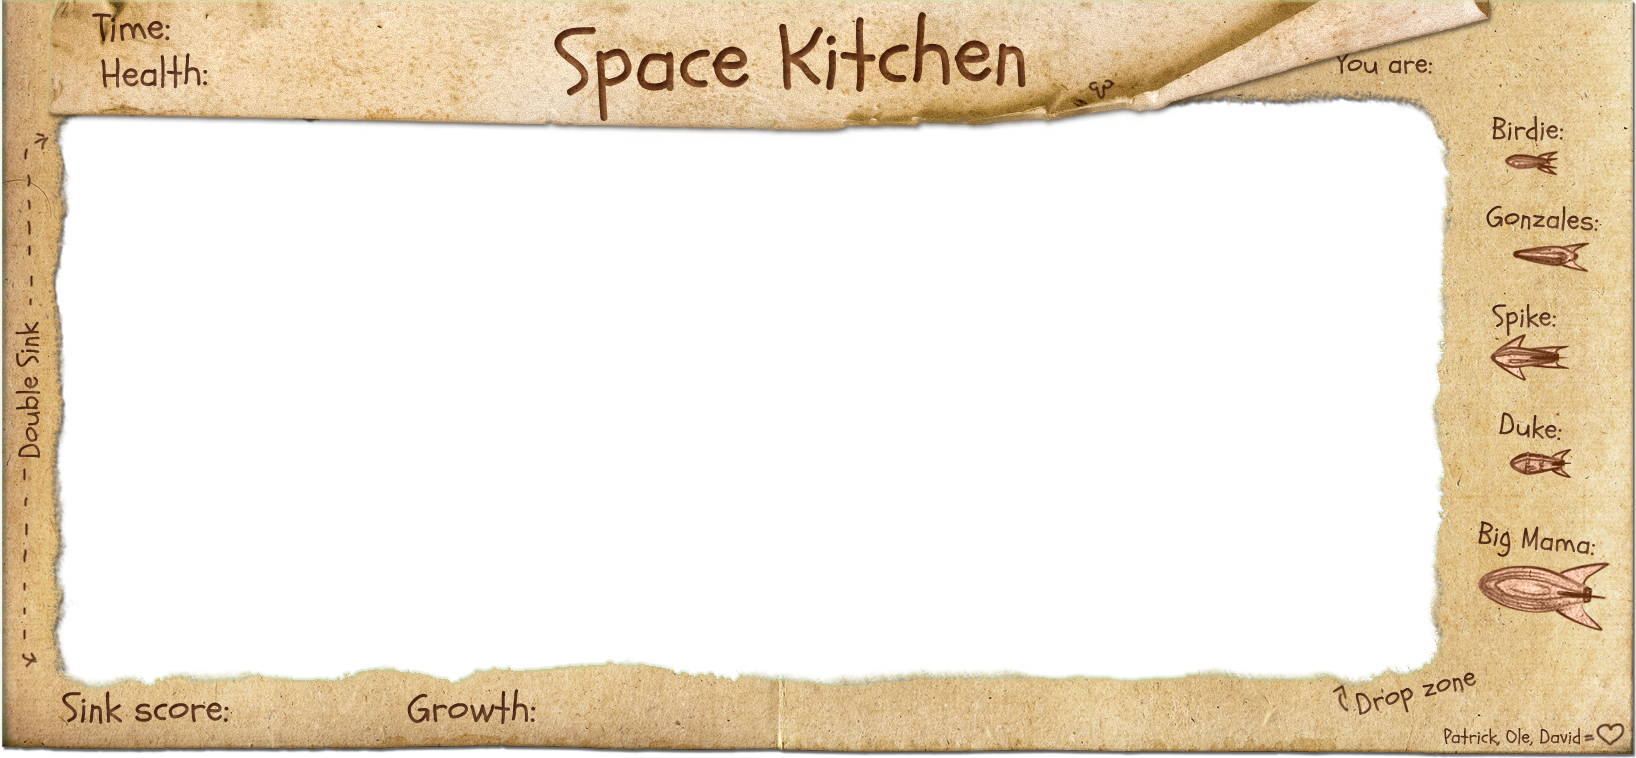
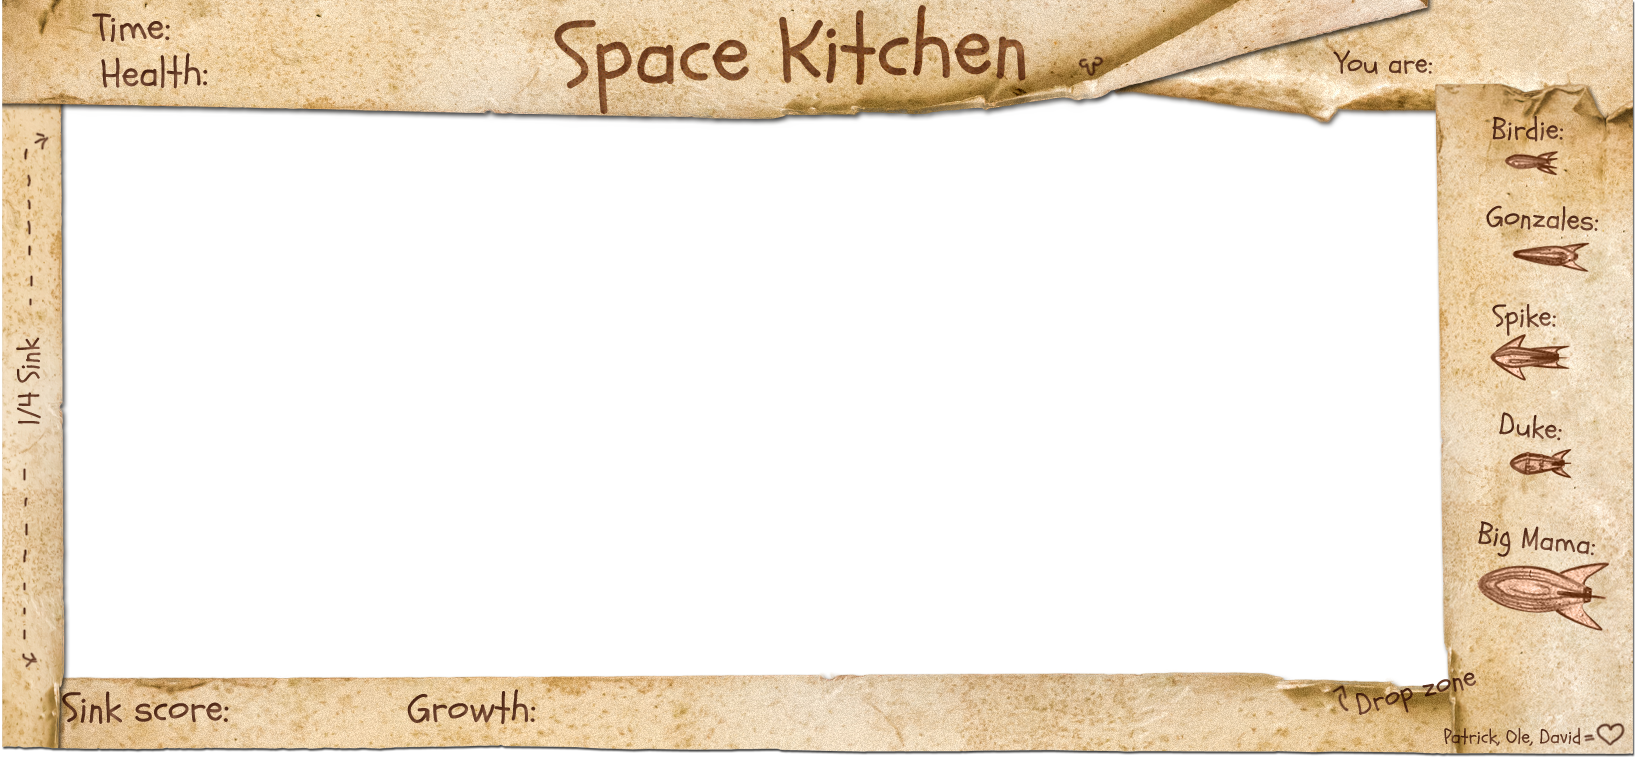
some stylz

Changed region(s): [[0.0, 0.0, 1.0, 1.0]]

diff --git a/socket_events/game.js b/socket_events/game.js
@@ -130,7 +130,7 @@ function broadcastUnitsPos() {
 			x: unit.x,
 			y: unit.y,
 			player: game.attacker_pos
-			};
+		};
 		switch (unit.unit_name) {
 			case 'enemy1':
 				data = game.ai.enemy1(data);
@@ -210,7 +210,7 @@ function updateSink() {
 	var data = {
 		sink: game.sink,
 		growth: game.growth
-		};
+	};
 
 	if (game.users.defender) {
 		game.users[game.roles.DEFENDER].emit('sink_update', data);

diff --git a/public/stylesheets/style.css b/public/stylesheets/style.css
@@ -11,6 +11,7 @@ body {
 	left: 50%;
 	z-index: 100;
 	position: absolute;
+	box-shadow: 1px 0px 43px #000;
 }
 
 #cr-stage {
@@ -18,7 +19,7 @@ body {
 	margin-left: -765px;
 	margin-top: 92px;
 	left: 50%;
-	background: url(/images/back_kitchen7.jpg) repeat-x;
+	background: url(/images/back_kitchen.jpg) repeat-x;
 }
 
 #hidden-dropzone {
